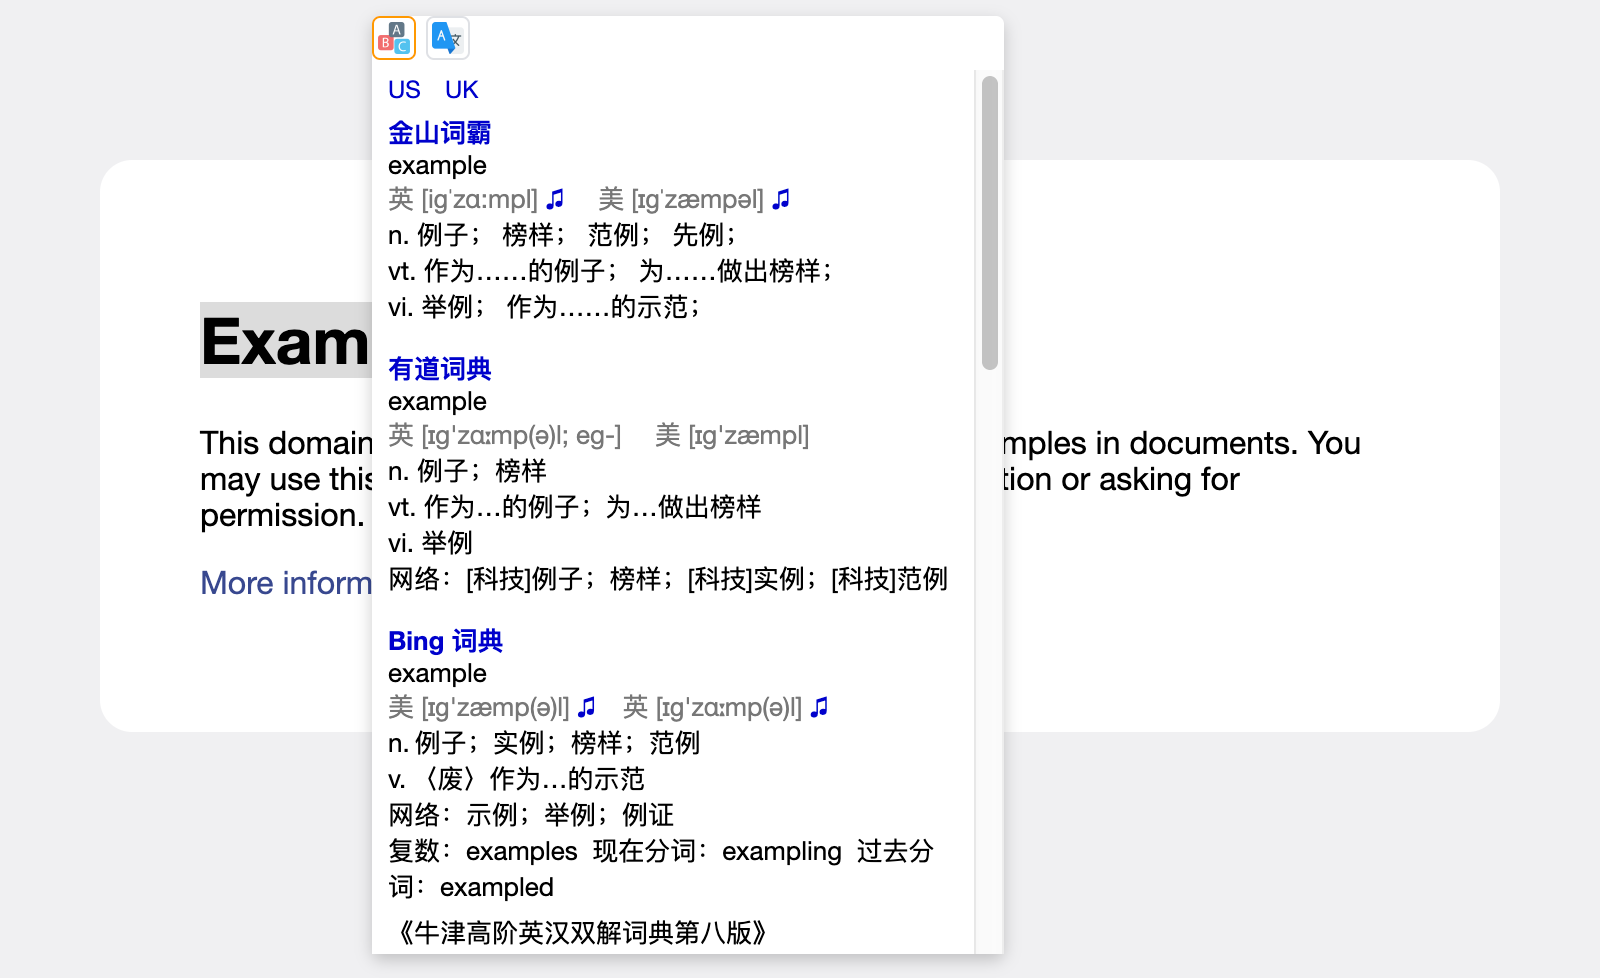
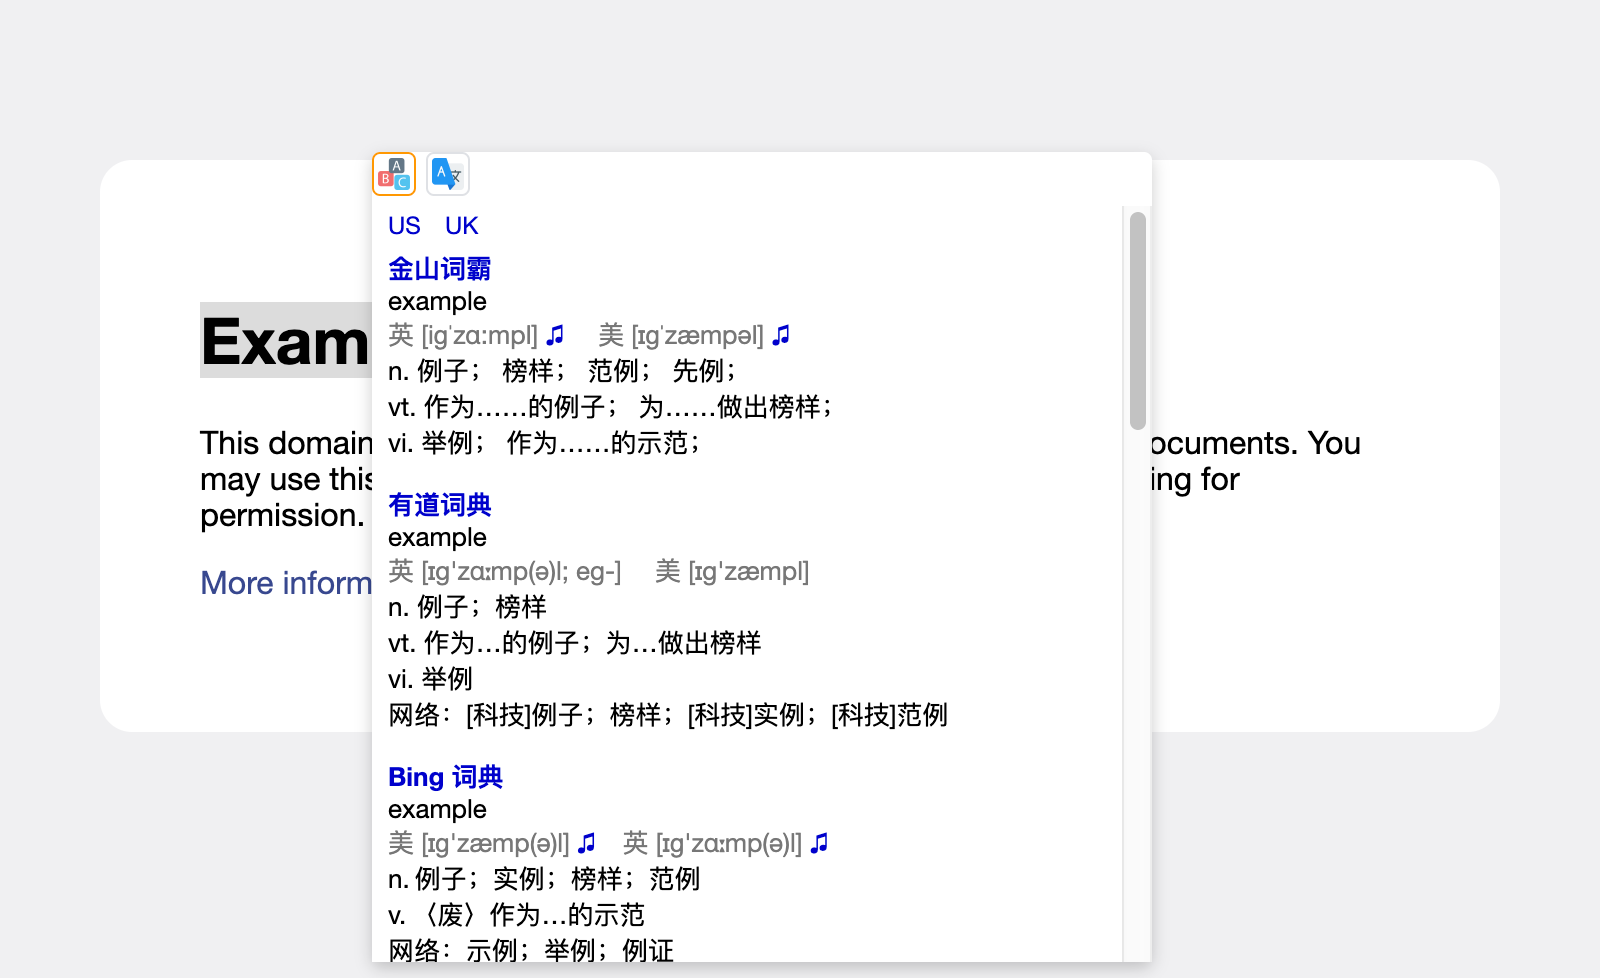
修改窗口大小

diff --git a/translate/translate-dictionary.js b/translate/translate-dictionary.js
@@ -1,7 +1,7 @@
 // ==UserScript==
 // @name         划词翻译：多词典查询
 // @namespace    http://tampermonkey.net/
-// @version      5.9
+// @version      6.0
 // @description  划词翻译调用“有道词典（有道翻译）、金山词霸、Bing 词典（必应词典）、剑桥高阶、沪江小D、谷歌翻译”
 // @author       https://github.com/barrer
 // @match        http://*/*
@@ -43,7 +43,7 @@
     tr-audio{display:block;margin-bottom:5px}
     tr-audio a{margin-right:1em;font-size:80%}
     tr-audio a:last-of-type{margin-right:auto}
-    tr-content{display:block;width:300px;overflow-x:hidden;overflow-y:scroll;background:white;padding:2px 8px;margin-top:5px;box-sizing:content-box;font-family:"Helvetica Neue","Helvetica","Arial","sans-serif";font-size:13px;font-weight:normal;line-height:normal;-webkit-font-smoothing:auto;font-smoothing:auto;text-rendering:auto}
+    tr-content{display:block;width:374px;height:374px;overflow-x:hidden;overflow-y:scroll;background:white;padding:2px 8px;margin-top:5px;box-sizing:content-box;font-family:"Helvetica Neue","Helvetica","Arial","sans-serif";font-size:13px;font-weight:normal;line-height:normal;-webkit-font-smoothing:auto;font-smoothing:auto;text-rendering:auto}
     tr-engine~tr-engine{margin-top:1em}
     tr-engine .title{color:#00c;display:inline-block;font-weight:bold}
     tr-engine .title:hover{text-decoration:none}
@@ -659,8 +659,8 @@
     }
     /**显示内容面板*/
     function displayContent() {
-        var panelWidth = 316 + 8; // icon 展开后总宽度(8:冗余距离)
-        var panelHeight = 0; // icon 展开后总高度
+        var panelWidth = 390 + 8; // icon 展开后总宽度(8:冗余距离)
+        var panelHeight = 405 + 8; // icon 展开后总高度(8:冗余距离)
         // 计算位置
         log('content position:',
             'window.scrollY', window.scrollY,
@@ -696,9 +696,6 @@
         if (!clientWidth) { // 网页缩放导致可能数组为空（[0] 为 undefined）
             clientWidth = parseInt(window.innerWidth);
         }
-        // 计算“icon 展开后总高度”、内容高度
-        panelHeight = clientHeight - 8; // (8:冗余距离)
-        content.style.height = (panelHeight - 22 - 5 * 1 - 2 * 2 - 12) + 'px'; // 图标高度, margin, padding, box-shadow
         // 设置新的位置
         var iconNewTop = -1;
         if (parseInt(icon.style.top) < scrollTop) {
